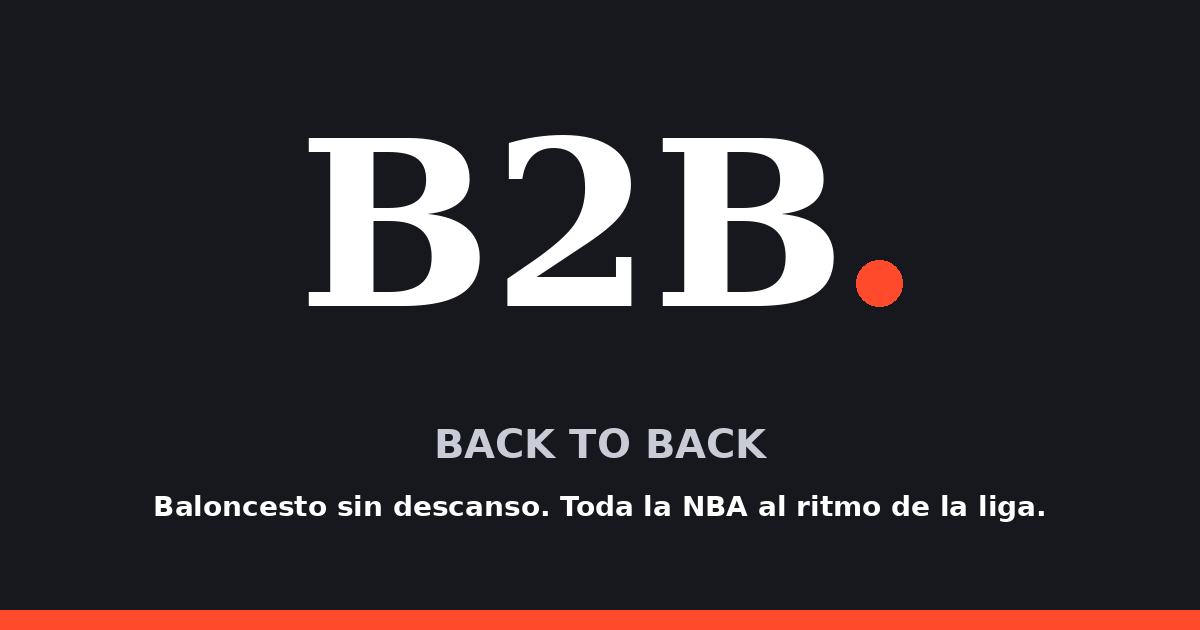
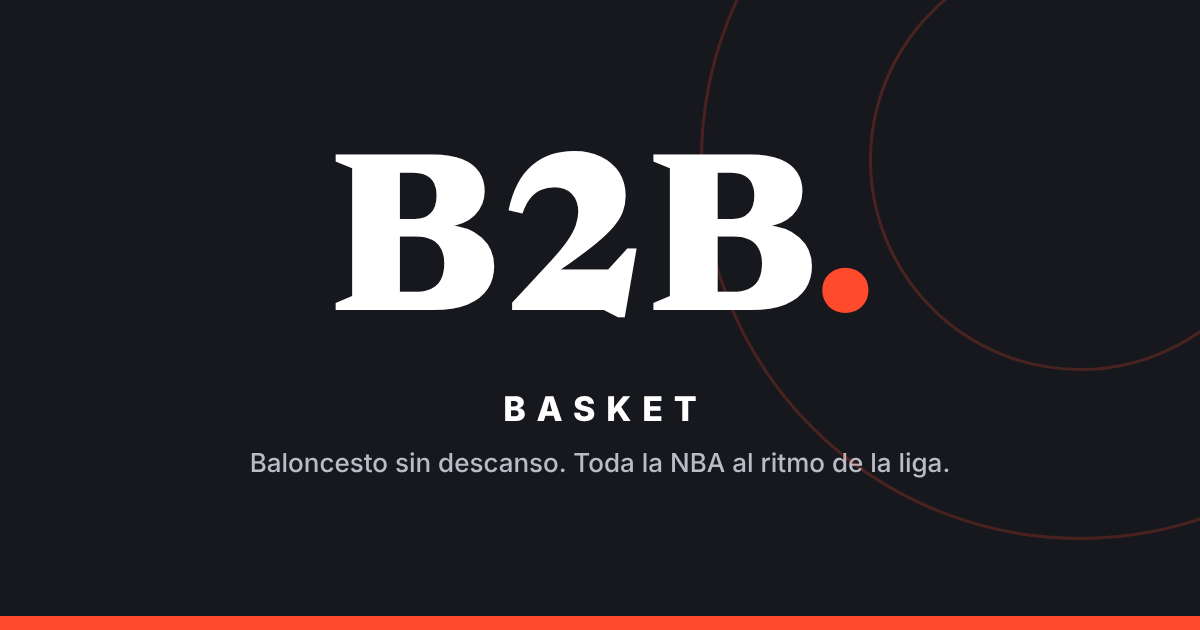
Nombre B2B Basket y repaso general de la web
Claude-Session: https://claude.ai/code/session_011MeFedTurMCX1QiT9cuJE1

diff --git a/src/css/estilos.css b/src/css/estilos.css
@@ -434,7 +434,7 @@ html[data-tema="oscuro"] .tema-boton .sol{display:block}
 html[data-tema="oscuro"] .tema-boton .luna{display:none}
 @media (max-width:1040px){.tema-boton{margin:8px 0}}
 
-/* ===== v12: identidad Back to Back ===== */
+/* ===== v12: identidad B2B Basket ===== */
 .splash__logo{text-transform:uppercase;text-align:center;line-height:1}
 .splash__lema{text-transform:none;letter-spacing:.14em;font-size:13px;text-align:center;max-width:90vw;line-height:1.5}
 .logo{letter-spacing:.01em}
@@ -1093,3 +1093,11 @@ html[data-tema="oscuro"] .racha--p{color:#FF7A5E}
 .portadas__item h2{font-size:22px;margin:0 0 10px}
 .portadas__item img{display:block;width:100%;height:auto;border-radius:12px;border:1px solid var(--linea)}
 .portadas__enlaces{display:flex;flex-wrap:wrap;gap:10px;margin:12px 0 0}
+
+/* Revisión 9 nov: en móvil, nada debe salirse por la derecha */
+.tablas > *{min-width:0}
+.selector-conf{flex-wrap:wrap}
+.hero__titulo{display:block}
+.oculto-visual{position:absolute!important;width:1px;height:1px;overflow:hidden;clip:rect(0 0 0 0);white-space:nowrap}
+.juego__inicio button{font:700 17px var(--cuerpo);padding:14px 34px;border-radius:999px;border:0;background:var(--acento);color:#fff;cursor:pointer;transition:transform .2s}
+.juego__inicio button:hover{transform:translateY(-2px)}

diff --git a/src/js/juego.js b/src/js/juego.js
@@ -167,7 +167,7 @@
   });
   document.getElementById('juegoCompartir').addEventListener('click', (e) => {
     const bolas = hoyEstado.acierto ? '🏀'.repeat(hoyEstado.intentos.length) + ' ✅' : '❌';
-    const t = 'Back to Back · Adivina el jugador (' + hoy + ')\n' + bolas + '\n' + location.href;
+    const t = 'B2B Basket · Adivina el jugador (' + hoy + ')\n' + bolas + '\n' + location.href;
     const ok = () => { const b = e.target, x = b.textContent; b.textContent = '¡Copiado!'; setTimeout(() => { b.textContent = x; }, 1800); };
     if (navigator.clipboard) navigator.clipboard.writeText(t).then(ok).catch(() => window.prompt('Copia tu resultado:', t)); else window.prompt('Copia tu resultado:', t);
   });

diff --git a/eleventy.config.js b/eleventy.config.js
@@ -7,7 +7,7 @@ import fs from "node:fs";
 const [DUENO, REPO] = (process.env.GITHUB_REPOSITORY || "hugoamigo2006-collab/medio-nba").split("/");
 const EN_RAIZ = REPO.toLowerCase() === `${DUENO.toLowerCase()}.github.io`;
 const PREFIJO = EN_RAIZ ? "/" : `/${REPO}/`;
-const WEB = { repo: `${DUENO}/${REPO}`, prefijo: PREFIJO, url: `https://${DUENO.toLowerCase()}.github.io${EN_RAIZ ? "" : "/" + REPO}` };
+const WEB = { version: Date.now().toString(36), repo: `${DUENO}/${REPO}`, prefijo: PREFIJO, url: `https://${DUENO.toLowerCase()}.github.io${EN_RAIZ ? "" : "/" + REPO}` };
 
 export default function (eleventyConfig) {
   // Copia tal cual estos archivos a la web final

diff --git a/src/js/calendario.js b/src/js/calendario.js
@@ -1,4 +1,4 @@
-// Calendario NBA de Back to Back
+// Calendario NBA de B2B Basket
 // Lee /datos/calendario.json (generado por la actualización automática) y no inventa nada:
 // si falta un dato, lo dice.
 (function () {

diff --git a/src/paginas/quienes-somos.md b/src/paginas/quienes-somos.md
@@ -2,7 +2,7 @@
 title: Quiénes somos
 ---
 
-**Back to Back (B2B)** es un medio digital independiente sobre la NBA, escrito en español. Aquí encontrarás noticias, previas, crónicas, análisis, estadísticas e historias de la mejor liga de baloncesto del mundo.
+**B2B Basket** es un medio digital independiente sobre la NBA, escrito en español. Aquí encontrarás noticias, previas, crónicas, análisis, estadísticas e historias de la mejor liga de baloncesto del mundo.
 
 ## Quién está detrás
 
@@ -16,9 +16,9 @@ Quería crear un espacio propio desde el que informar sobre la NBA y, sobre todo
 
 B2B quiere combinar el rigor periodístico con una forma de comunicar cercana, dinámica y visual. No pretende ser una página que recopila noticias, sino un medio con personalidad propia y con una comunidad de aficionados detrás.
 
-## Por qué «Back to Back»
+## Por qué B2B
 
-En baloncesto, *back to back* tiene un doble significado: los partidos que se juegan en noches consecutivas y los títulos ganados dos años seguidos. Representa la exigencia, la constancia y la ambición de seguir compitiendo al máximo nivel.
+B2B son las siglas de *back to back*, una expresión que en baloncesto tiene un doble significado: los partidos que se juegan en noches consecutivas y los títulos ganados dos años seguidos. Representa la exigencia, la constancia y la ambición de seguir compitiendo al máximo nivel.
 
 También resume la filosofía del proyecto: no quedarse en una publicación puntual, sino trabajar día a día para construir algo con continuidad.
 
@@ -28,6 +28,6 @@ Por transparencia, conviene que lo sepas: los Golden State Warriors son uno de m
 
 ## ¿Quieres colaborar?
 
-Ahora mismo soy el único responsable de B2B: desarrollo el proyecto, me encargo de la web y preparo los contenidos. Me gustaría que, en el futuro, se incorporasen otras personas interesadas en el baloncesto y el periodismo deportivo, para que B2B se convierta en un proyecto colectivo.
+Ahora mismo soy el único responsable de B2B Basket: desarrollo el proyecto, me encargo de la web y preparo los contenidos. Me gustaría que, en el futuro, se incorporasen otras personas interesadas en el baloncesto y el periodismo deportivo, para que B2B Basket se convierta en un proyecto colectivo.
 
 Si quieres proponer un tema, avisarnos de un error o sumarte al proyecto, escríbenos desde la página de [contacto](../contacto/).

diff --git a/src/leyendas/lebron-james.md b/src/leyendas/lebron-james.md
@@ -27,7 +27,7 @@ fuentes:
   - { titulo: "MVP de la temporada, Wikipedia", url: "https://en.wikipedia.org/wiki/NBA_Most_Valuable_Player" }
   - { titulo: "Lista de campeones de la NBA, Wikipedia", url: "https://en.wikipedia.org/wiki/List_of_NBA_champions" }
   - { titulo: "LeBron James firma con los 76ers, 6abc (ESPN)", url: "https://6abc.com/post/lebron-james-join-philadelphia-76ers-2-year-8-million-deal-espn/19569037/" }
-  - { titulo: "Líderes históricos de Back to Back (puntos y asistencias)", url: "../../lideres-historicos/" }
+  - { titulo: "Líderes históricos de la NBA (puntos y asistencias)", url: "../../lideres-historicos/" }
 ---
 
 Ningún jugador ha anotado tantos puntos en la NBA como LeBron James. Pero su historia no se entiende solo con números: es la de alguien que cambió tres veces de equipo y ganó en los tres.

diff --git a/src/leyendas/kobe-bryant.md b/src/leyendas/kobe-bryant.md
@@ -23,7 +23,7 @@ fuentes:
   - { titulo: "Kobe Bryant en cifras, comunicado de la NBA", url: "https://pr.nba.com/kobe-bryant-career-numbers/" }
   - { titulo: "MVP de las Finales, Wikipedia", url: "https://en.wikipedia.org/wiki/NBA_Finals_Most_Valuable_Player_award" }
   - { titulo: "Lista de campeones de la NBA, Wikipedia", url: "https://en.wikipedia.org/wiki/List_of_NBA_champions" }
-  - { titulo: "Líderes históricos de Back to Back (puntos)", url: "../../lideres-historicos/" }
+  - { titulo: "Líderes históricos de la NBA (puntos)", url: "../../lideres-historicos/" }
 ---
 
 Kobe Bryant pasó sus 20 temporadas en la NBA con la misma camiseta. Pocas estrellas lo han hecho, y menos aún con cinco anillos.

diff --git a/src/leyendas/wilt-chamberlain.md b/src/leyendas/wilt-chamberlain.md
@@ -22,7 +22,7 @@ fuentes:
   - { titulo: "Golden State Warriors, Wikipedia", url: "https://en.wikipedia.org/wiki/Golden_St._Warriors" }
   - { titulo: "Philadelphia 76ers, Wikipedia", url: "https://en.wikipedia.org/wiki/Philadelphia_76ers" }
   - { titulo: "MVP de la temporada, Wikipedia", url: "https://en.wikipedia.org/wiki/NBA_Most_Valuable_Player" }
-  - { titulo: "Líderes históricos de Back to Back (rebotes y puntos)", url: "../../lideres-historicos/" }
+  - { titulo: "Líderes históricos de la NBA (rebotes y puntos)", url: "../../lideres-historicos/" }
 ---
 
 Hay récords que se baten y récords que parecen imposibles. Los de Wilt Chamberlain pertenecen al segundo grupo.

diff --git a/src/previas/ejemplo-previa.md b/src/previas/ejemplo-previa.md
@@ -4,7 +4,7 @@ visitante: "[EJEMPLO] Equipo B"
 date: 2026-11-02
 fecha_hora: "Texto de ejemplo: día y hora en horario peninsular"
 donde: "Texto de ejemplo: canal o plataforma"
-autor: "[Tu nombre]"
+autor: "Hugo Amigo Suárez"
 claves:
   - "Primera clave del partido, inventada para ver el diseño."
   - "Segunda clave del partido."
